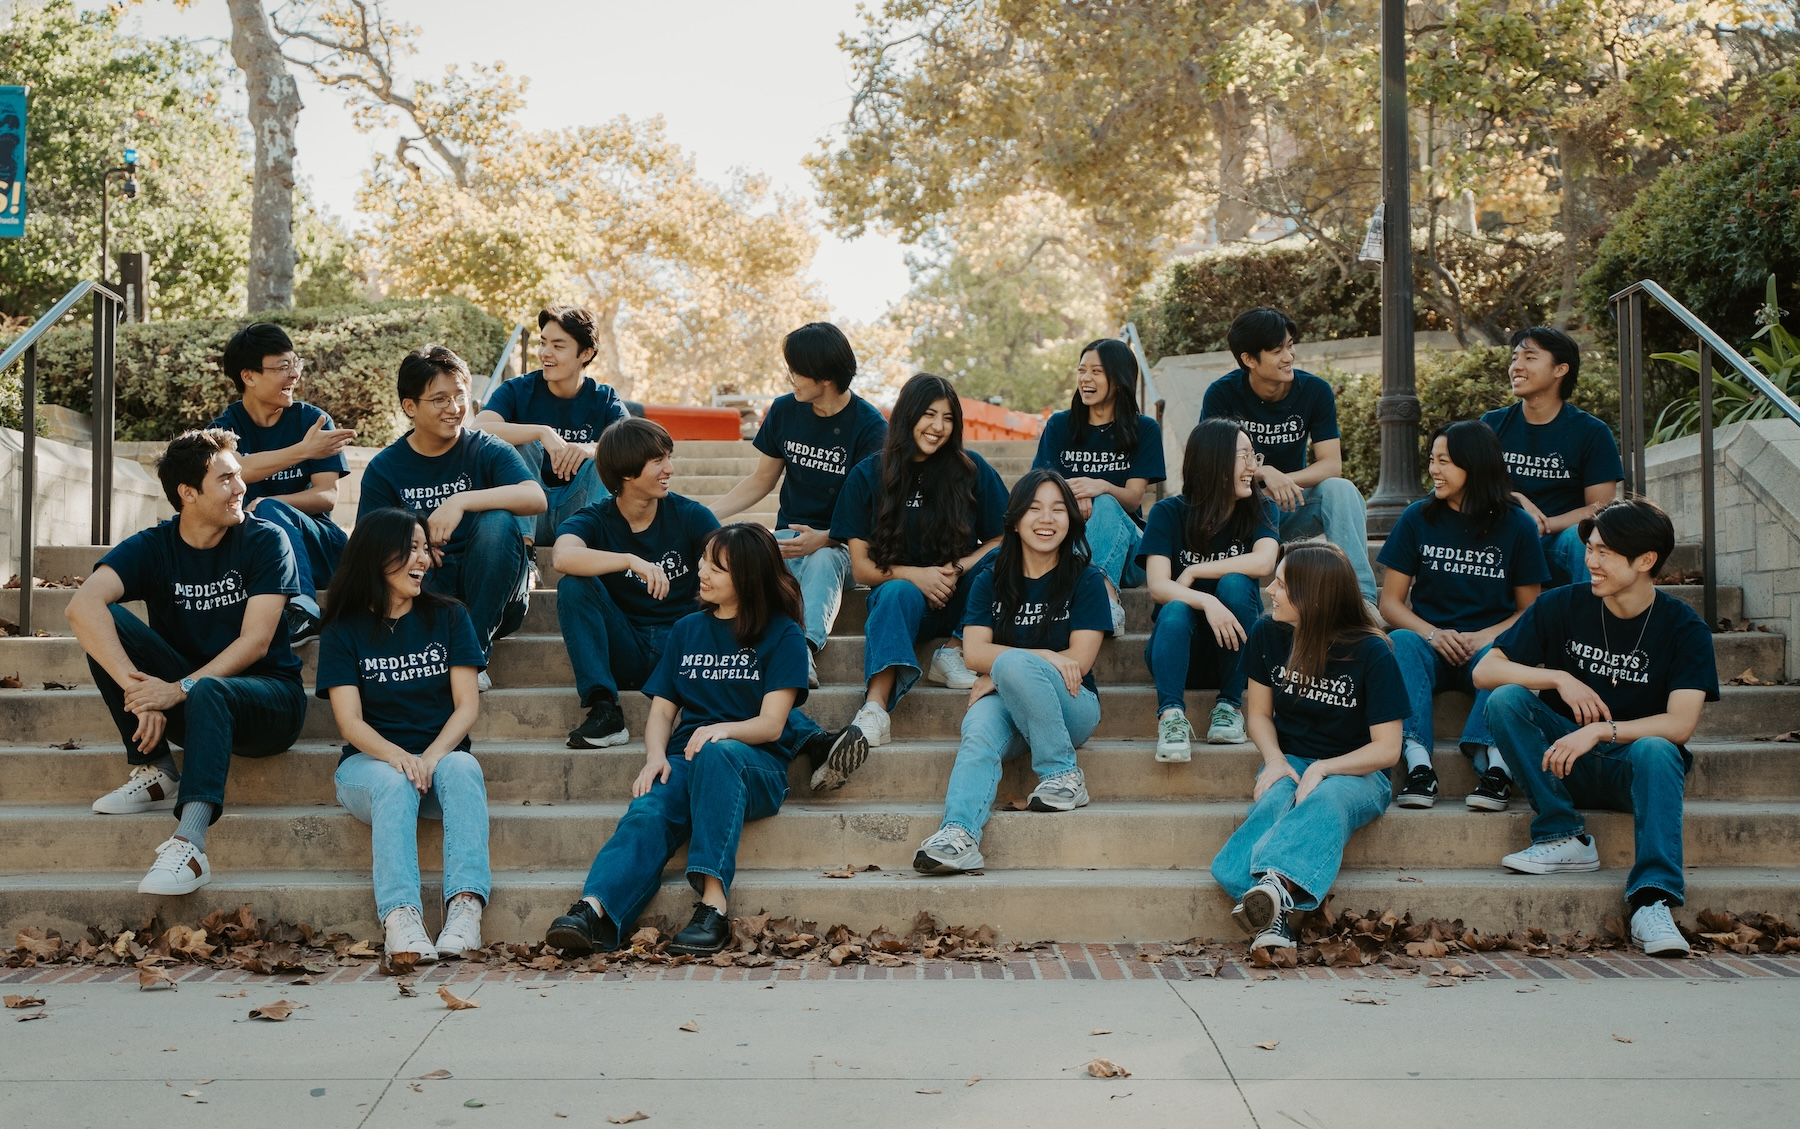
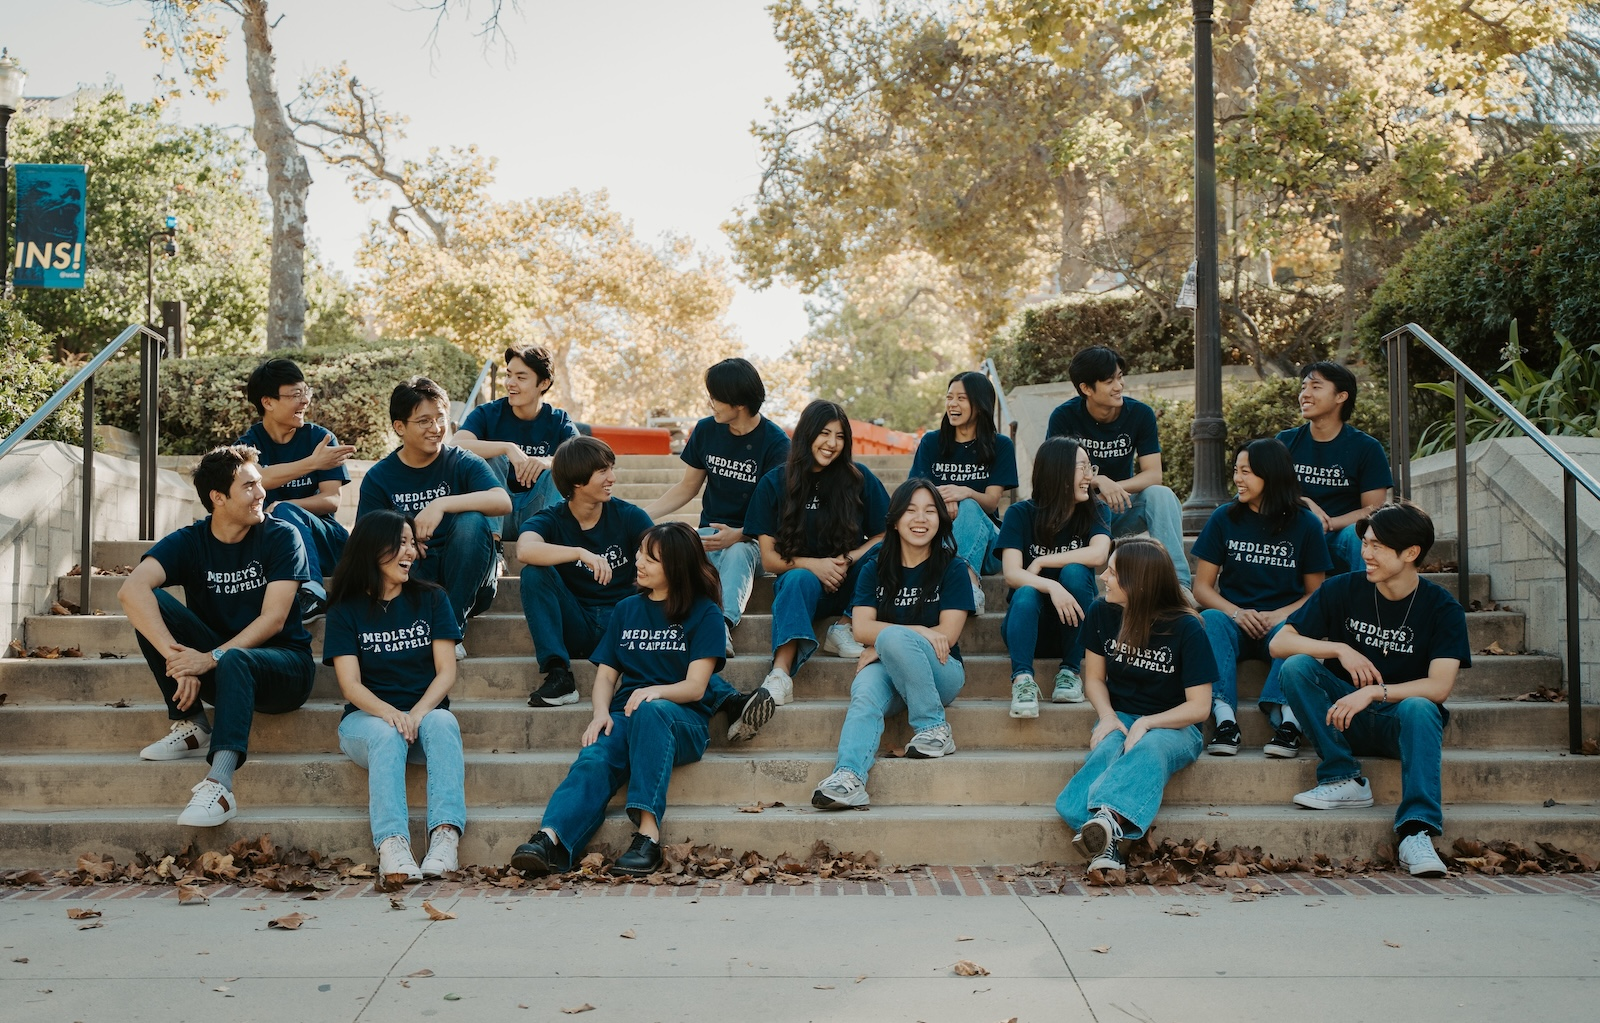
Adjust cropping of home and contact page photos

diff --git a/src/index.html b/src/index.html
@@ -2,7 +2,7 @@
 layout: _layout.html
 title: Home
 ---
-        <div class="jumbotron jumbotron-fluid" style="background-image: linear-gradient(rgba(0,0,0,0.3),rgba(0,0,0,0.3)), url('{{root}}assets/photos/home.jpg'); background-position: 50% 60%;">
+        <div class="jumbotron jumbotron-fluid" style="background-image: linear-gradient(rgba(0,0,0,0.3),rgba(0,0,0,0.3)), url('{{root}}assets/photos/home.jpg'); background-position: 50% 70%;">
             <video autoplay muted playsinline class="display-title title-logo" id="video-logo">
                 <source src="{{root}}assets/logo-animation-cropped.webm" type="video/webm">
             </video>
